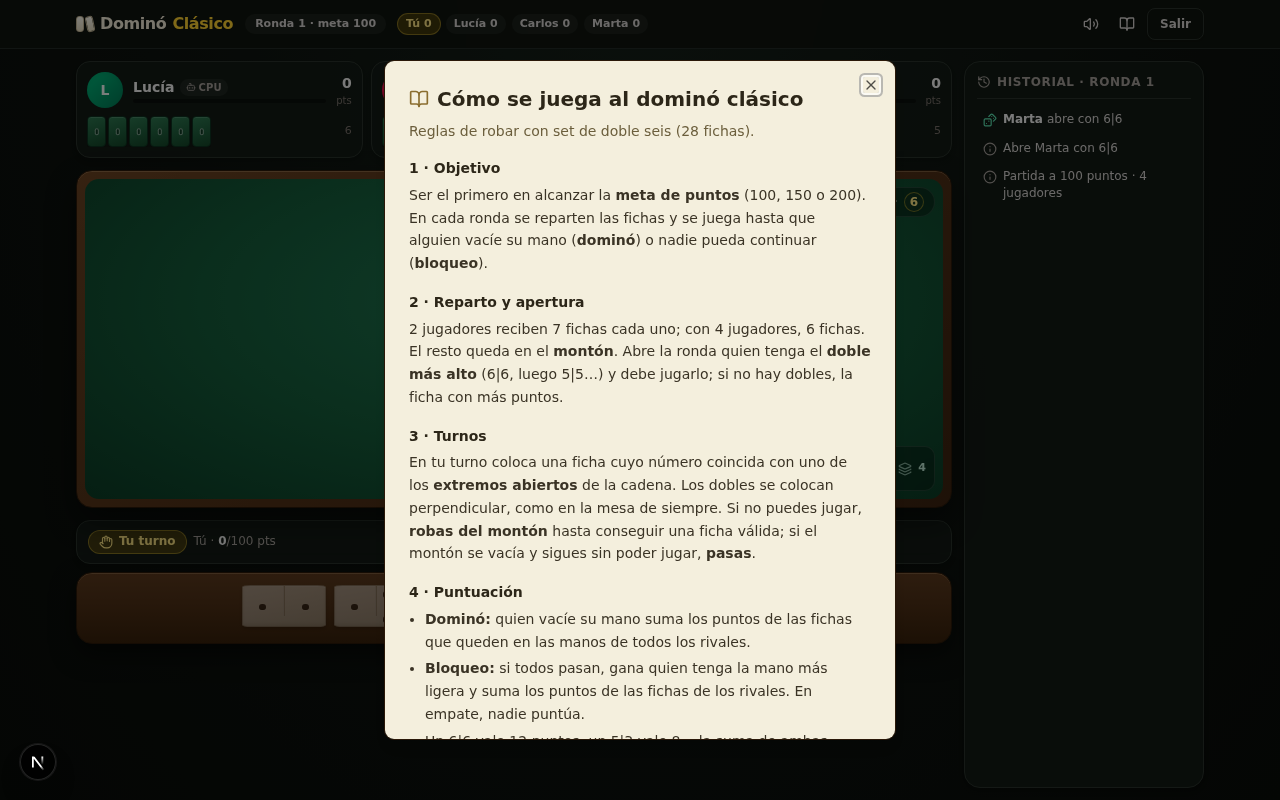
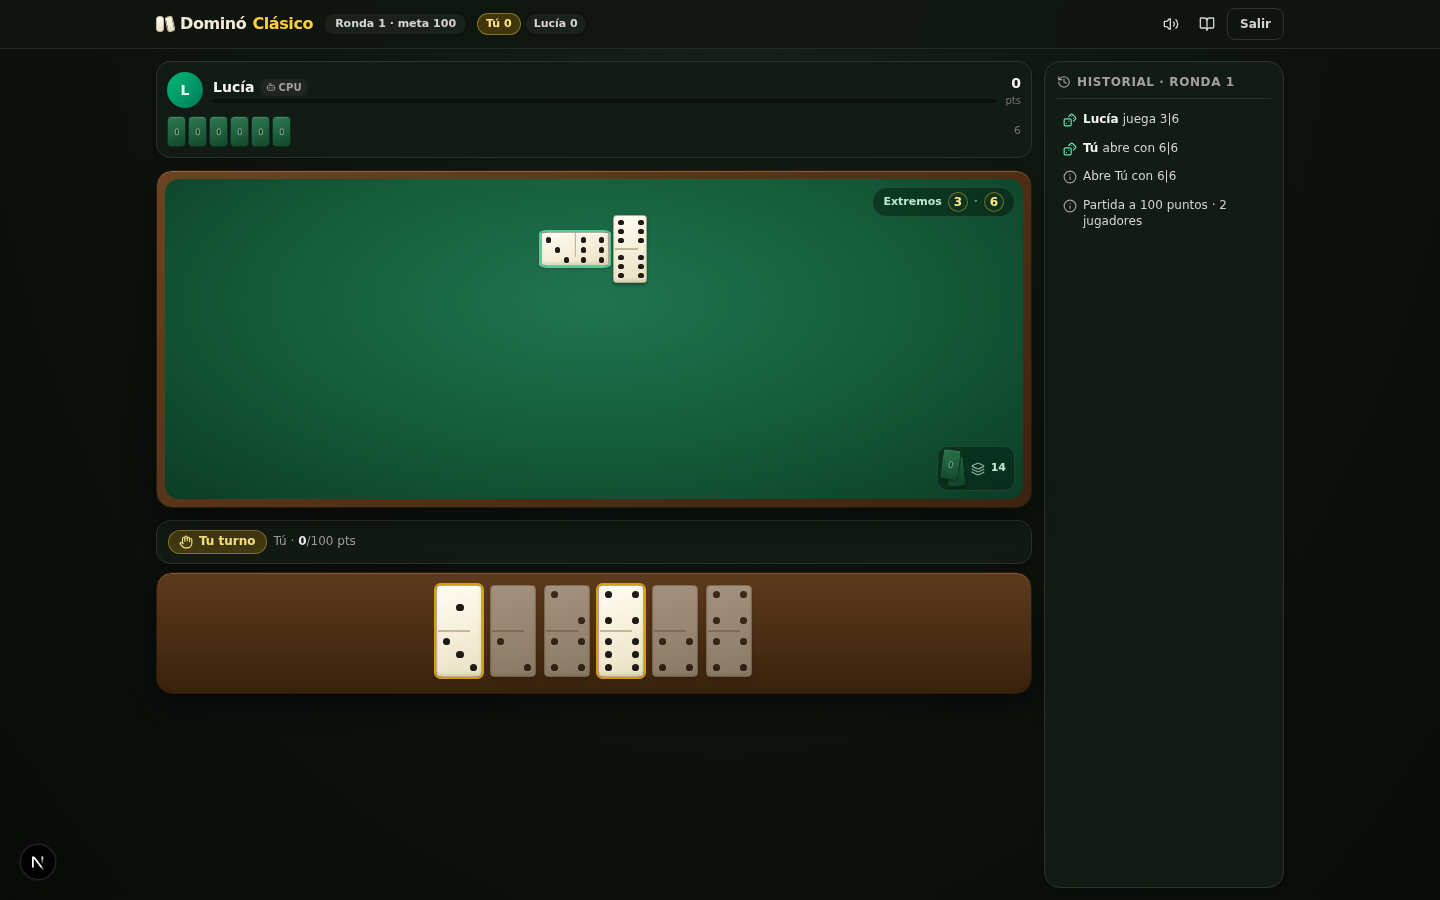
Fichas verticales para los jugadores
- La mano del jugador humano ahora se muestra con fichas verticales
  (como se sostienen los dominós reales), con tamaño ajustado en el
  soporte: clamp(30px, 8vw, 46px)
- Fichas restantes del diálogo de fin de ronda también verticales
- Capturas del README actualizadas con el nuevo diseño
- Verificado en escritorio (1440px) y móvil (390px): proporción 1:2,
  sin desbordes ni errores de consola

diff --git a/src/components/domino/player-hand.tsx b/src/components/domino/player-hand.tsx
@@ -128,7 +128,7 @@ export function PlayerHand({
       {/* Soporte de fichas */}
       <div
         className="rounded-2xl border border-[#2a1808] bg-[linear-gradient(180deg,#5c3a1e_0%,#4a2d14_55%,#38210b_100%)] p-2 shadow-[0_10px_24px_rgba(0,0,0,0.5),inset_0_1px_0_rgba(255,220,170,0.22)] sm:p-3"
-        style={{ '--u': 'clamp(26px, 7vw, 42px)' } as React.CSSProperties}
+        style={{ '--u': 'clamp(30px, 8vw, 46px)' } as React.CSSProperties}
       >
         {me.hand.length === 0 ? (
           <p className="py-6 text-center text-sm font-semibold text-amber-200/80">¡Mano vacía!</p>
@@ -150,6 +150,7 @@ export function PlayerHand({
                   >
                     <DominoTile
                       as="button"
+                      vertical
                       left={tile.x}
                       right={tile.y}
                       playable={playable}

diff --git a/src/components/domino/dialogs.tsx b/src/components/domino/dialogs.tsx
@@ -150,7 +150,7 @@ export function RoundEndDialog({
                 {r.tiles.length > 0 && (
                   <div className="mt-1.5 flex flex-wrap gap-1" style={{ '--u': '17px' } as React.CSSProperties}>
                     {r.tiles.map((t) => (
-                      <DominoTile key={t.id} left={t.x} right={t.y} />
+                      <DominoTile key={t.id} vertical left={t.x} right={t.y} />
                     ))}
                   </div>
                 )}
